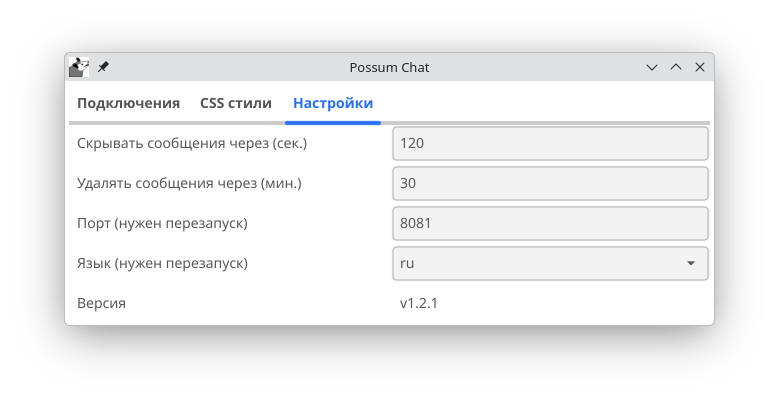
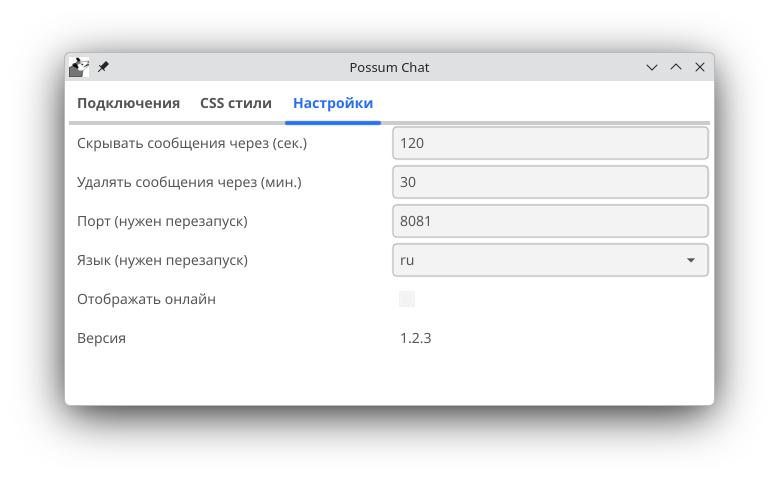
[79]  отключение онлайна

Changed region(s): [[0.0616, 0.0896, 0.9551, 0.9254], [0.4929, 0.7463, 0.5546, 0.7761]]

diff --git a/internal/ui/main_window_settings.go b/internal/ui/main_window_settings.go
@@ -14,7 +14,7 @@ import (
 	"github.com/PlayingPossumHiss/possum_chat/internal/service/logger"
 )
 
-const version = "1bd0f07"
+const version = "1.2.3"
 
 func (ui *UI) getSettingsTabContent() *fyne.Container {
 	const itemsInLine = 2
@@ -39,6 +39,11 @@ func (ui *UI) getSettingsTabContent() *fyne.Container {
 	settingsContent = append(
 		settingsContent,
 		ui.getLangSettingsView()...,
+	)
+
+	settingsContent = append(
+		settingsContent,
+		ui.getShowOnlineSettingsView()...,
 	)
 
 	settingsContent = append(
@@ -116,6 +121,25 @@ func (ui *UI) bindTimeToDeleteSettingsViewHandler(timeToDeleteField *widget.Entr
 		if err != nil {
 			logger.Error(fmt.Errorf("failed to update config: %w", err))
 		}
+	}
+}
+
+func (ui *UI) getShowOnlineSettingsView() []fyne.CanvasObject {
+	showOnlineChecker := widget.NewCheck(
+		"",
+		func(newValue bool) {
+			ui.configStorage.UpdateConfig([]entity.ConfigUpdateOption{
+				func(c *entity.Config) {
+					c.View.ShowUserCount = newValue
+				},
+			})
+		},
+	)
+	showOnlineChecker.SetChecked(ui.configStorage.Config().View.ShowUserCount)
+
+	return []fyne.CanvasObject{
+		widget.NewLabel(ui.languageProvider.Local(entity.LanguageTextConstantSettingsShowOnline)),
+		showOnlineChecker,
 	}
 }
 

diff --git a/internal/use_case/get_online/get_online.go b/internal/use_case/get_online/get_online.go
@@ -7,20 +7,31 @@ type Scraper interface {
 	Status() entity.ScraperState
 }
 
+type ConfigStorage interface {
+	Config() entity.Config
+}
+
 type OnlineGetter struct {
-	scrapers map[entity.Source]Scraper
+	scrapers      map[entity.Source]Scraper
+	configStorage ConfigStorage
 }
 
 func New(
 	scrapers map[entity.Source]Scraper,
+	configStorage ConfigStorage,
 ) *OnlineGetter {
 	return &OnlineGetter{
-		scrapers: scrapers,
+		scrapers:      scrapers,
+		configStorage: configStorage,
 	}
 }
 
 func (og *OnlineGetter) GetOnline() map[entity.Source]int64 {
 	result := make(map[entity.Source]int64)
+	if !og.configStorage.Config().View.ShowUserCount {
+		return result
+	}
+
 	for source, scraper := range og.scrapers {
 		if scraper.Status() != entity.ScraperStateActive {
 			continue

diff --git a/internal/container/container.go b/internal/container/container.go
@@ -262,7 +262,15 @@ func (c *Container) getOnlineScraper() (*get_online.OnlineGetter, error) {
 	}
 	onlineScrapers[entity.SourceVkPlayLive] = vkScraper
 
-	return get_online.New(onlineScrapers), nil
+	configService, err := c.getConfig()
+	if err != nil {
+		return nil, err
+	}
+
+	return get_online.New(
+		onlineScrapers,
+		configService,
+	), nil
 }
 
 func (c *Container) getStyleGetter() (*get_style.UseCase, error) {

diff --git a/internal/service/settings/settings.go b/internal/service/settings/settings.go
@@ -122,6 +122,11 @@ func upgradeConfig(src config) config {
 		src.Version = "1.2"
 	}
 
+	if src.Version == "1.2" {
+		src.View.ShowUserCount = true
+		src.Version = "1.3"
+	}
+
 	return src
 }
 

diff --git a/internal/service/language_provider/translations.go b/internal/service/language_provider/translations.go
@@ -58,6 +58,10 @@ var (
 			entity.ConfigLangEn: "Language (need restart)",
 			entity.ConfigLangRu: "Язык (нужен перезапуск)",
 		},
+		entity.LanguageTextConstantSettingsShowOnline: {
+			entity.ConfigLangEn: "Show online",
+			entity.ConfigLangRu: "Отображать онлайн",
+		},
 		entity.LanguageTextConstantAppVersion: {
 			entity.ConfigLangEn: "Version",
 			entity.ConfigLangRu: "Версия",

diff --git a/internal/service/settings/datastruct.go b/internal/service/settings/datastruct.go
@@ -10,7 +10,7 @@ const (
 	configPath = "./config.json"
 )
 
-var currentVersion = "1.2"
+var currentVersion = "1.3"
 
 type config struct {
 	Connections configConnections `json:"connections"`
@@ -66,6 +66,7 @@ type configView struct {
 	CssMainStyle        configMainStyle `json:"main_style"`
 	TimeToHideMessage   string          `json:"time_to_hide_message"`
 	TimeToDeleteMessage string          `json:"time_to_delete_message"`
+	ShowUserCount       bool            `json:"show_user_count"`
 }
 
 type configMainStyle string

diff --git a/internal/service/settings/conversion.go b/internal/service/settings/conversion.go
@@ -119,6 +119,7 @@ func viewFromJson(src configView) (entity.ConfigView, error) {
 		CssMainStyle:        cssMainStyle,
 		TimeToHideMessage:   timeToHideMessage,
 		TimeToDeleteMessage: timeToDeleteMessage,
+		ShowUserCount:       src.ShowUserCount,
 	}, nil
 }
 
@@ -145,6 +146,7 @@ func configToJson(src entity.Config) config {
 			CssMainStyle:        cssMainStyleToJson(src.View.CssMainStyle),
 			TimeToHideMessage:   src.View.TimeToHideMessage.String(),
 			TimeToDeleteMessage: src.View.TimeToDeleteMessage.String(),
+			ShowUserCount:       src.View.ShowUserCount,
 		},
 		UI:      configUI{Lang: langToJson(src.UI.Lang)},
 		Port:    src.Port,

diff --git a/internal/entity/config.go b/internal/entity/config.go
@@ -66,6 +66,7 @@ type ConfigView struct {
 	CssMainStyle        ConfigMainStyle
 	TimeToHideMessage   time.Duration
 	TimeToDeleteMessage time.Duration
+	ShowUserCount       bool
 }
 
 type ConfigLogging struct {

diff --git a/internal/entity/language.go b/internal/entity/language.go
@@ -17,6 +17,7 @@ const (
 	LanguageTextConstantSettingsPort                LanguageTextConstant = "SETTINGS_PORT"
 	LanguageTextConstantSettingsLang                LanguageTextConstant = "SETTINGS_LANG"
 	LanguageTextConstantAppVersion                  LanguageTextConstant = "APP_VERSION"
+	LanguageTextConstantSettingsShowOnline          LanguageTextConstant = "SETTINGS_SHOW_ONLINE"
 	LanguageTextConstantTestMessageButton           LanguageTextConstant = "TEST_MESSAGE_BUTTON"
 	LanguageTextConstantTestMessageContent          LanguageTextConstant = "TEST_MESSAGE_CONTENT"
 	LanguageTextConstantMainStyleField              LanguageTextConstant = "MAIN_STYLE_FIELD"